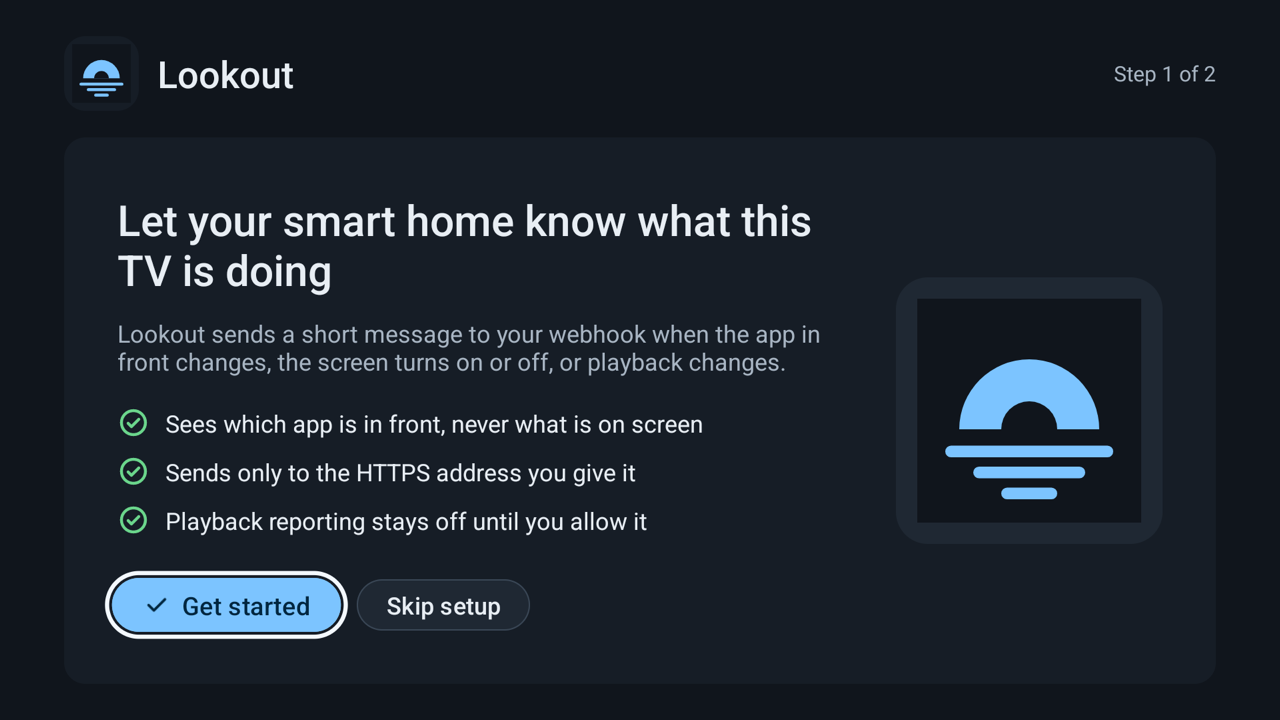
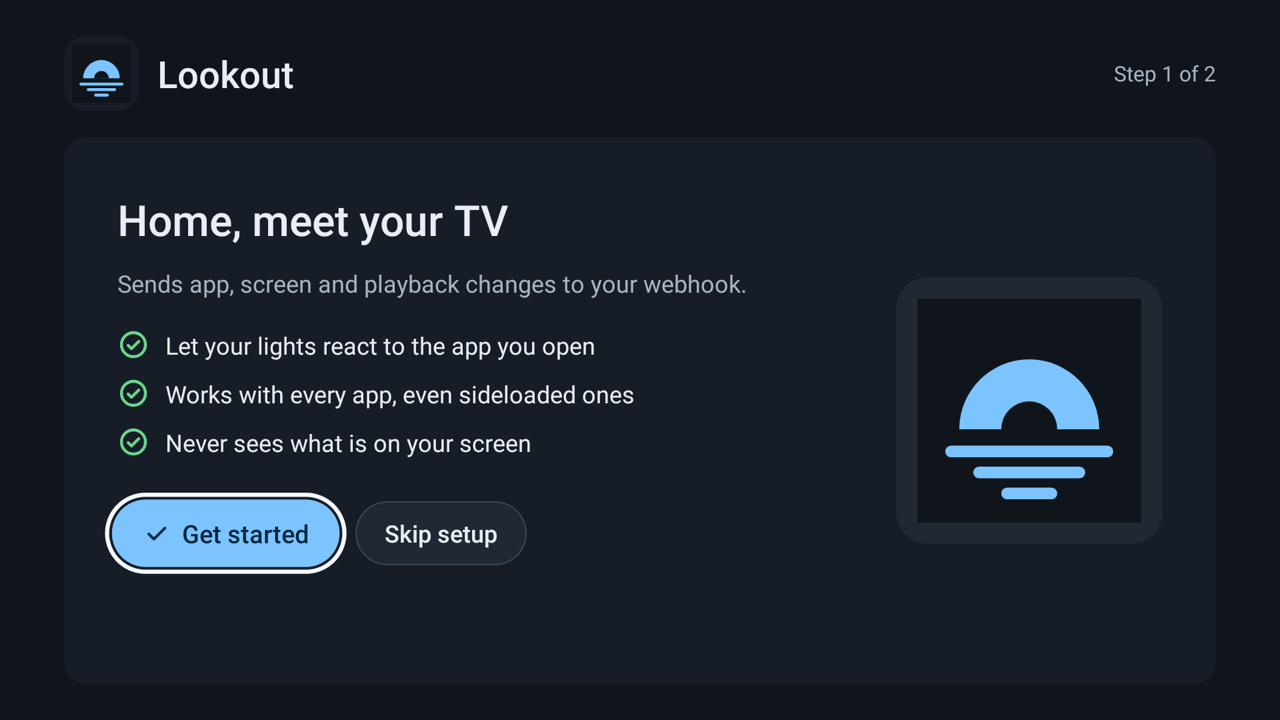
Add the tagline "Home, meet your TV" and slim down the welcome screen
The README opening, GitHub description and welcome screen now share the
tagline. The welcome screen keeps a one-line description and three short
points that say what Lookout enables, not how it works; the screenshot is
retaken from the new layout.

Changed region(s): [[0.0625, 0.4583, 0.6562, 0.8861], [0.0938, 0.275, 0.6562, 0.4278]]

diff --git a/README.md b/README.md
@@ -1,8 +1,6 @@
 # <img src="docs/logo.svg" alt="" width="40" height="40" align="top"> Lookout
 
-Lets your smart home know what your Android TV is doing: which app is open, whether the screen is on, and what's playing.
-
-Your TV remote API can tell Home Assistant the TV is on. It usually can't tell it that you just opened SmartTube, paused an episode or let the screensaver kick in, and sideloaded apps are invisible to it. Lookout runs on the TV itself, so it sees every app, and sends each change to your webhook the moment it happens.
+**Home, meet your TV.** Lookout tells your smart home which app is open, whether the screen is on and what's playing.
 
 ## What you can do with it
 

diff --git a/CHANGELOG.md b/CHANGELOG.md
@@ -2,6 +2,12 @@
 
 All notable changes to Lookout. The format follows [Keep a Changelog](https://keepachangelog.com/), and versions follow [Semantic Versioning](https://semver.org/).
 
+## [Unreleased]
+
+### Changed
+
+- The welcome screen is shorter: it greets you with "Home, meet your TV", a one-line description and three short points. The notes about HTTPS-only delivery and opt-in playback reporting are no longer on it; both still apply.
+
 ## [0.5.0] - 2026-11-16
 
 ### Added
